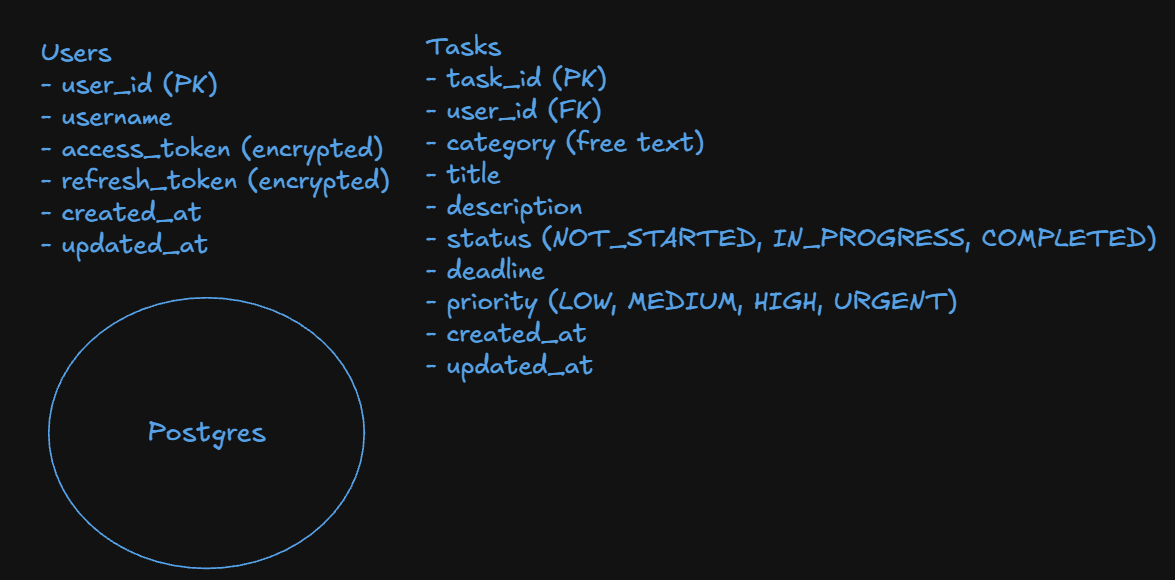
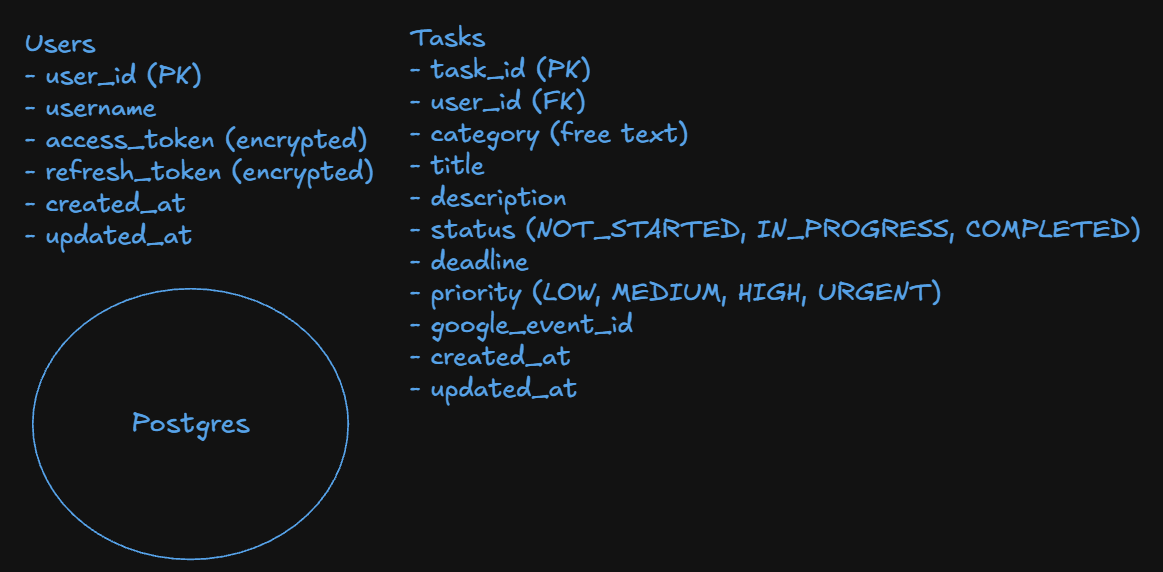
9/21 blog post - unfinished

diff --git a/_posts/AI Assisted Planner/2026-09-17-Design-And-Planning.md b/_posts/AI Assisted Planner/2026-09-17-Design-And-Planning.md
@@ -159,7 +159,7 @@ Another modification, I might want to support a seperate Task view later on - so
 
 #### Big Pivot, Abandoning the Calendar Entity ####
 
-Okay huge modification here to my Core entities. After doing some reflection of my thoughts I'm realizing that my `Calendar` entity doesn't serve a real purpose. Google Calendar is the source of truth for our system, so having our own local Calendar entity would be misleading because we'd have two seperate sources, and our local Calendar entity would only really be syncing data from Google Calendar's API.
+Okay huge modification here to my Core entities. After doing some reflection, I'm realizing that my `Calendar` entity doesn't serve a real purpose. Google Calendar is the source of truth for our system, so having our own local Calendar entity would be misleading because we'd have two seperate sources, and our local Calendar entity would only really be syncing data from Google Calendar's API.
 
 In the case that Google Calendar API is down, our system reflects an inaccurate state of Google Calendar displays which is not what we want. We discussed `Consistency` over `Availabilty` and keeping them synced as closely as possible would require asynchronous sync jobs to pull Google Calendar data to ensure our Calendar entity maintains the correct state. 
 In my opinion, that's not worth the overhead.
@@ -173,6 +173,8 @@ On the other hand though, the Google Calendar `Task` event differs slightly from
 It supports other fields like deadlines and descriptions, but I think there's a lot more that we could add to this to make it a full fletched feature. Like say for example having the ability to add sub-tasks
 
 I'm not removing my earlier thought process and entity breakdown for the old calendar entity design because I think it's a good example of showcasing how designs can change and scopes can evolve as I go deeper into the implementation details and planning phase. 
+
+I want to give the user the option to block off calendar time with the task, so while it's not directly related to Google Calendar's tasks, it'll be it's own entity that we can populate on Google Calendar (if the user chooses to) that might say store category, description, status, deadline just as an event body.
 
 Enjoy the read! (or not)
 
@@ -189,19 +191,19 @@ Enjoy the read! (or not)
 
 <hr>
 
-
-
 ### API Design ###
 
 [Click here to skip the discussion and view the API Design](#my-designed-endpoints)
 
 #### API Design Discussion and Planning ####
 
-For my CRUD operations with fetching UI details and interacting with the Google calendar API I'm going to be using REST APIs, here are a few reasons why:
+For my CRUD operations with fetching UI details/task creation/ and interacting with the Google calendar API I'm going to be using REST APIs, here are a few reasons why:
 
-- We are using a standard CRUD interface with well defined resource. Users, Calendars, CalendarItems which map very well with our UI
-    - We don't have issues with under/over fetching data since our data requirements are clearly defined
-- The Google Calendar API which we have a depdendency on is also REST, so making it consistent is a bonus
+- We are using a standard CRUD interface with well defined resource. 
+- We don't have issues with under/over fetching data since our data requirements are clearly defined
+- The Google Calendar API, which we have a depdendency on, is also REST so making it consistent is a bonus
+
+Our Calendar endpoints will really just be a proxy for calling Google Calendar's APIs, since Google we adjusted to Google Calendar being the source of truth. But having our Controller and our own Service layer makes sense because we might have certain business logic in place. Especially since we will want to have custom specifications on how to create tasks as events.
 
 For the AI agent I'm thinking we might have to take a different approach. With my previous [RAG project](https://eddiecwh.github.io/categories/rag-ai-chatbot/) I was looking for a simple chat-based request response interaction with a local LLM that utilized a sample set of confluence documentation and JSON formatted slack styled messages as context. A REST API was the right approach there, because it followed a basic flow
 
@@ -290,7 +292,7 @@ Here are some of the tradeoffs that I discussed w/ Claude
 
 And for a personal project: There might be costs that are induced with using third party applications. 
 
-I think my decision for now is to keep text-transcription on the client side. The factors that matter the most to be currently are: `convinience`, `ease of setup` and `cost`
+I think my decision for now is to keep text-transcription on the client side. The factors that matter the most to be currently are: `convenience`, `ease of setup` and `cost`
 
 If it's something that just isn't working out the way I want it to, I'll make a decision to change it later on.
 
@@ -301,20 +303,61 @@ Since the authenticated user is implicit from the OAuth token, I'm not going to 
 **CRUD Operations for Calendar Event view/modification**
 
 ```
-# fetch all events
-GET /Calendars/{calendarId}/calendar_item/
+# fetch all events (leaving multiple google calendar types out of scope for now)
+GET /Calendars/Events
 
 # fetch event by Id
-GET /Calendars/{calendarId}/calendar_item/{itemId}
+GET /Calendars/Events/{eventId}
 
 # Create an event
-POST /Calendars/{calendarId}/calendar_item/
+POST /Calendars/Events
 
 # Update an event
-PUT /Calendars/{calendarId}/calendar_item/{itemId}
+PUT /Calendars/Events/{eventId}
 
 # Delete an event
-DELETE /Calendars/{calendarId}/calendar_item/{itemId}
+DELETE /Calendars/Events/{eventId}
+```
+
+**Task events**
+
+```
+# fetch all tasks
+GET /Tasks/
+
+# fetch task by Id
+GET /Tasks/{taskId}
+
+# Create an event
+POST /Tasks
+
+requestBody {
+    "title" : "Get ingredients from the store",
+    "description" : "tomatoes, strawberries, ham",
+    "category" : "Shopping",
+    "status" : "NOT_STARTED",
+    "deadline" : "2026-09-23 13:00",
+    "priority" : "HIGH",
+}
+
+# Update a task
+PUT /Tasks/{taskId}
+
+requestBody {
+    "title" : "Get ingredients from the store",
+    "description" : "pineapple, ham",
+}
+
+# Delete a task
+DELETE /Tasks/{taskId}
+
+# Block Calendar Time for Task
+POST /Tasks/{taskId}/block-time
+
+requestBody: { 
+    "start_dt": "...", 
+    "end_dt": "..." 
+}
 ```
 
 **Agent Operations**
@@ -332,11 +375,59 @@ data: {"type": "thinking", "message": "You have a conflict, want me to suggest a
 data: {"type": "done"}
 ```
 
+<hr>
+
+### High Level Design ###
+
+<img src="../assets/img/figures/projects/ai-assistant-scheduler/hld1.png" alt="query-1.png" style="width: 100%; margin: 0 auto">
+
+Just to clarify, the diagram consists of two CalendarService but they are the same class. Just pointing out the flow where we call the GoogleCalendar config from that service, and then later parse the response
+
+<img src="../assets/img/figures/projects/ai-assistant-scheduler/hld2.png" alt="query-1.png" style="width: 100%; margin: 0 auto">
+
+<img src="../assets/img/figures/projects/ai-assistant-scheduler/hld3.png" alt="query-1.png" style="width: 100%; margin: 0 auto">
+
+The agentic HLD is actually going to be interesting. I've created a small agent before with Spring AI, but it was pretty basic. Let's see how I map out this workflow design
+
+When the user sends a message after it hits the `POST /agent/message` endpoint, the first thing is that the agent needs to decide what tools it has to use to solve the problem
+
+Based on our functional requirements our agent should be able to do things like seeing/editing what's on the calendar and task list. These tools map directly to the services that we already designed
+
+- Check calendar → `CalendarService`
+- Edit calendar → `CalendarService`
+- Check tasks → `TaskService`
+- Edit tasks → `TaskService`
+
+So our agent is kinda like a loadbalancer (lol idk how I got that analogy), that decides which of our existing services to call based on the user's request
+
+Thinking about our SSE component for sending intermediary updates, our `AgentService` should be pushing real-time updates back to the client. With SpringAI, we have access to `ChatClient` which handles the communication with the `LLM Provider`. 
+
+For understanding's sake, it's like the equivalent of our `GoogleCalendarClient` which abstracts the HTTP communication with the external service. But in this case it would be the LLM API. We'd also have to define `tools` that in SpringAI which route to our `Task/Calendar` services that `ChatClient` passes to the model so our agent knows what actions it can take.
+
+So our flow starts to look like this:
+
+<img src="../assets/img/figures/projects/ai-assistant-scheduler/hld4.png" alt="query-1.png" style="width: 100%; margin: 0 auto">
 
 
+To word together what's happenning here:
 
+1. a request is made to the `/agent/message` endpoint
+2. AgentService injects `ChatClient` which makes a call to LLM
+3. LLM reasons what tools it needs for the request (based on tools that we provided the LLM via CalendarService and TaskService explicity defined as tools)
+4. As this is happenning, intermediate updates are pushed to the client via SSE
+5. The LLM determines whether or not it needs further tools calls to fufill the request
+5a. If no, pass completion information to the client
+5.b If yes, pass result back to the LLM (repeat step 3)
 
+I hope I was able to illustrate this clearly in the diagram, still getting the hang of clearly illustrating my workflows on paper
 
+<hr>
 
+### Deep-dives ###
 
+```
+The AI Agent implementation — specifically how you define tools in Spring AI, how the agentic loop actually works in code, and how you wire SSE streaming to it
+
+Google OAuth flow — the actual token exchange, how you store and decrypt the refresh token, and how you attach the access token to outbound Google API calls
+```
 
